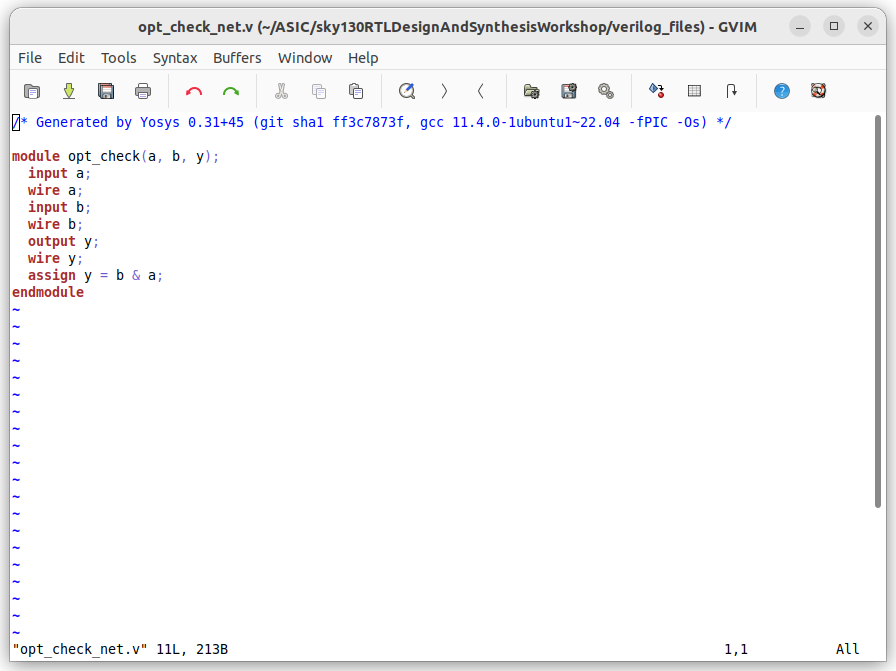
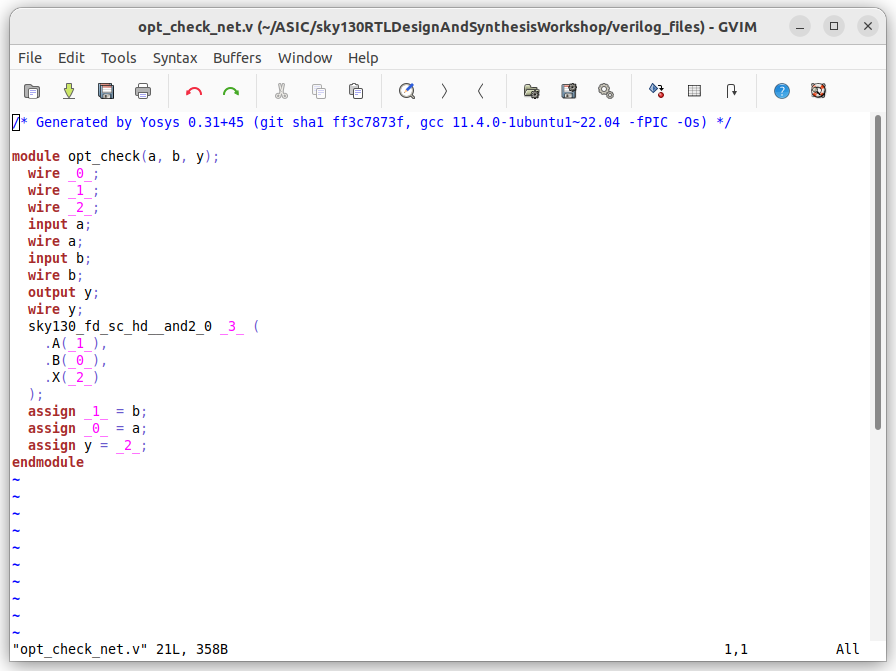
Updated

diff --git a/README.md b/README.md
@@ -825,14 +825,39 @@ module opt_check (input a , input b , output y);
 endmodule
 ```
 The above code infers a multiplexer as shown below :
+
 ![opt_1](./images/day_3/opt_1.png)
+
 Since one of the inputs of the multiplexer is always connected to the ground it will infer an AND gate on optimisation.
+
 ![opt_1_opt](./images/day_3/opt_1_opt.png)
 
 The synthesis result and the netlist is shown below :
+
 ![opt_1_synth](./images/day_3/opt_1_synth.png)
+
 ![opt_1_net](./images/day_3/opt_1_net.png)
 
+#### **Example 2 **
+The verilog code for the exampple 2 is given below :
+```
+module opt_check2 (input a , input b , output y);
+	assign y = a?1:b;
+endmodule
+```
+The above code infers a multiplexer as shown below :
+
+![opt_2](./images/day_3/opt_2_opt.png)
+
+Since one of the inputs of the multiplexer is always connected to the logic 1 it will infer an OR gate on optimisation. The OR gate will be NAND implementation since NOR gate has stacked pmos while NAND implementation has stacked nmos.
+
+![opt_2_opt](./images/day_3/opt_2_opt_des.png)
+
+The synthesis result and the netlist is shown below :
+
+![opt_2_synth](./images/day_3/opt_2_synth.png)
+
+![opt_2_net](./images/day_3/opt_2_net.png)
 
 [Reference Section]:#
 ## References
